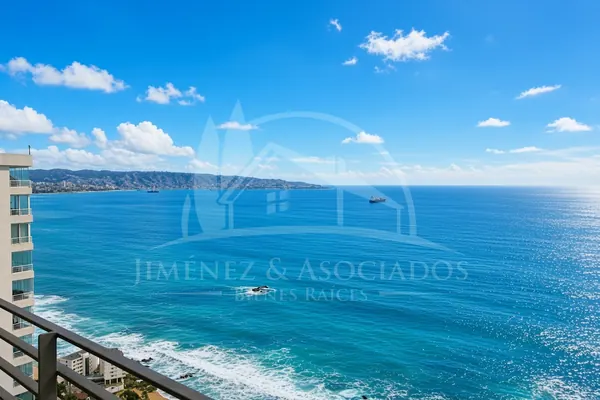
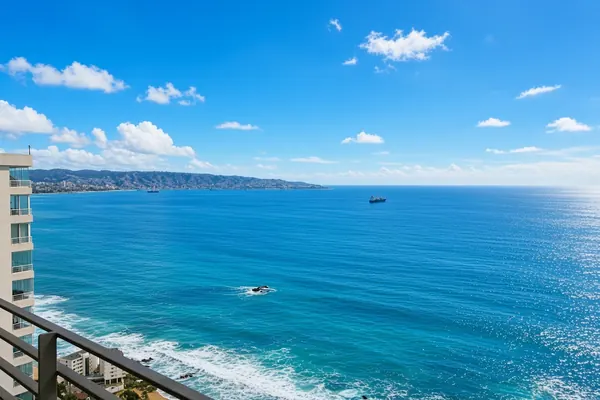
Arriendo Reñaca Norte: portada completa 3:2 sin marca de agua y galería en 2 columnas en móvil

Changed region(s): [[0.21, 0.42, 0.78, 0.75], [0.33, 0.24, 0.6, 0.39], [0.45, 0.36, 0.48, 0.39]]

diff --git a/public/arriendo-renaca-norte.html b/public/arriendo-renaca-norte.html
@@ -24,12 +24,12 @@
     <link rel="icon" type="image/png" sizes="48x48" href="/favicon-48.png">
     <link rel="apple-touch-icon" sizes="180x180" href="/apple-touch-icon.png">
     <link rel="icon" type="image/png" sizes="192x192" href="/icon-192.png">
-    <script type="application/ld+json">{"@context": "https://schema.org", "@graph": [{"@type": "Apartment", "@id": "https://jimenezyasociados.cl/arriendo-renaca-norte.html#depto", "name": "Depto amoblado con vista al mar en Reñaca Norte", "description": "Arriendo depto amoblado en Reñaca Norte, Av. Edmundo Eluchans: 2 dormitorios, 2 baños en suite, 64 m² + terraza 11 m², vista al mar, piscina temperada, gimnasio, sauna, estacionamiento y bodega. $690.000/mes.", "url": "https://jimenezyasociados.cl/arriendo-renaca-norte.html", "image": ["https://jimenezyasociados.cl/img/arriendo-renaca-norte/00.webp", "https://jimenezyasociados.cl/img/arriendo-renaca-norte/02.webp", "https://jimenezyasociados.cl/img/arriendo-renaca-norte/04.webp", "https://jimenezyasociados.cl/img/arriendo-renaca-norte/08.webp", "https://jimenezyasociados.cl/img/arriendo-renaca-norte/11.webp", "https://jimenezyasociados.cl/img/arriendo-renaca-norte/18.webp"], "numberOfRooms": 2, "numberOfBedrooms": 2, "numberOfBathroomsTotal": 2, "floorSize": {"@type": "QuantitativeValue", "value": 64, "unitCode": "MTK"}, "amenityFeature": [{"@type": "LocationFeatureSpecification", "name": "Amoblado", "value": true}, {"@type": "LocationFeatureSpecification", "name": "Terraza 11 m²", "value": true}, {"@type": "LocationFeatureSpecification", "name": "Vista al mar", "value": true}, {"@type": "LocationFeatureSpecification", "name": "Piscina temperada", "value": true}, {"@type": "LocationFeatureSpecification", "name": "Gimnasio", "value": true}, {"@type": "LocationFeatureSpecification", "name": "Sauna", "value": true}, {"@type": "LocationFeatureSpecification", "name": "Conserjería", "value": true}, {"@type": "LocationFeatureSpecification", "name": "Estacionamiento", "value": true}, {"@type": "LocationFeatureSpecification", "name": "Bodega", "value": true}], "address": {"@type": "PostalAddress", "addressLocality": "Reñaca, Viña del Mar", "addressRegion": "Región de Valparaíso", "addressCountry": "CL"}}, {"@type": "Offer", "@id": "https://jimenezyasociados.cl/arriendo-renaca-norte.html#oferta", "businessFunction": "http://purl.org/goodrelations/v1#LeaseOut", "itemOffered": {"@id": "https://jimenezyasociados.cl/arriendo-renaca-norte.html#depto"}, "price": 690000, "priceCurrency": "CLP", "priceSpecification": {"@type": "UnitPriceSpecification", "price": 690000, "priceCurrency": "CLP", "unitText": "MONTH"}, "availability": "https://schema.org/InStock", "url": "https://jimenezyasociados.cl/arriendo-renaca-norte.html", "seller": {"@id": "https://jimenezyasociados.cl/#negocio", "@type": "RealEstateAgent", "name": "Jiménez & Asociados Bienes Raíces", "telephone": "+56951134778", "url": "https://jimenezyasociados.cl/"}}]}</script>
+    <script type="application/ld+json">{"@context": "https://schema.org", "@graph": [{"@type": "Apartment", "@id": "https://jimenezyasociados.cl/arriendo-renaca-norte.html#depto", "name": "Depto amoblado con vista al mar en Reñaca Norte", "description": "Arriendo depto amoblado en Reñaca Norte, Av. Edmundo Eluchans: 2 dormitorios, 2 baños en suite, 64 m² + terraza 11 m², vista al mar, piscina temperada, gimnasio, sauna, estacionamiento y bodega. $690.000/mes.", "url": "https://jimenezyasociados.cl/arriendo-renaca-norte.html", "image": ["https://jimenezyasociados.cl/img/arriendo-renaca-norte/00.webp?v=2", "https://jimenezyasociados.cl/img/arriendo-renaca-norte/02.webp", "https://jimenezyasociados.cl/img/arriendo-renaca-norte/04.webp", "https://jimenezyasociados.cl/img/arriendo-renaca-norte/08.webp", "https://jimenezyasociados.cl/img/arriendo-renaca-norte/11.webp", "https://jimenezyasociados.cl/img/arriendo-renaca-norte/18.webp"], "numberOfRooms": 2, "numberOfBedrooms": 2, "numberOfBathroomsTotal": 2, "floorSize": {"@type": "QuantitativeValue", "value": 64, "unitCode": "MTK"}, "amenityFeature": [{"@type": "LocationFeatureSpecification", "name": "Amoblado", "value": true}, {"@type": "LocationFeatureSpecification", "name": "Terraza 11 m²", "value": true}, {"@type": "LocationFeatureSpecification", "name": "Vista al mar", "value": true}, {"@type": "LocationFeatureSpecification", "name": "Piscina temperada", "value": true}, {"@type": "LocationFeatureSpecification", "name": "Gimnasio", "value": true}, {"@type": "LocationFeatureSpecification", "name": "Sauna", "value": true}, {"@type": "LocationFeatureSpecification", "name": "Conserjería", "value": true}, {"@type": "LocationFeatureSpecification", "name": "Estacionamiento", "value": true}, {"@type": "LocationFeatureSpecification", "name": "Bodega", "value": true}], "address": {"@type": "PostalAddress", "addressLocality": "Reñaca, Viña del Mar", "addressRegion": "Región de Valparaíso", "addressCountry": "CL"}}, {"@type": "Offer", "@id": "https://jimenezyasociados.cl/arriendo-renaca-norte.html#oferta", "businessFunction": "http://purl.org/goodrelations/v1#LeaseOut", "itemOffered": {"@id": "https://jimenezyasociados.cl/arriendo-renaca-norte.html#depto"}, "price": 690000, "priceCurrency": "CLP", "priceSpecification": {"@type": "UnitPriceSpecification", "price": 690000, "priceCurrency": "CLP", "unitText": "MONTH"}, "availability": "https://schema.org/InStock", "url": "https://jimenezyasociados.cl/arriendo-renaca-norte.html", "seller": {"@id": "https://jimenezyasociados.cl/#negocio", "@type": "RealEstateAgent", "name": "Jiménez & Asociados Bienes Raíces", "telephone": "+56951134778", "url": "https://jimenezyasociados.cl/"}}]}</script>
     <style>
     *{box-sizing:border-box}body{margin:0;font-family:system-ui,-apple-system,Segoe UI,Roboto,sans-serif;background:#0a0a0a;color:#f5f5f7;line-height:1.55}
     a{color:inherit}header{display:flex;justify-content:space-between;align-items:center;padding:16px 20px;border-bottom:1px solid #222}
     header b{letter-spacing:.08em}nav a{margin-left:16px;text-decoration:none;opacity:.8}
-    .hero{position:relative}.hero img{width:100%;height:min(70vh,560px);object-fit:cover;display:block}
+    .hero{position:relative;background:#0a0a0a;display:flex;justify-content:center}.hero img{display:block;width:100%;height:auto;aspect-ratio:3/2;max-width:calc(70vh * 1.5);max-height:70vh;object-fit:contain}
     .wrap{max-width:1100px;margin:0 auto;padding:24px 20px}
     .tag{display:inline-block;background:#2563eb;color:#fff;font-weight:700;font-size:12px;padding:4px 12px;border-radius:999px;text-transform:uppercase}
     h1{font-size:clamp(1.7rem,4vw,2.6rem);line-height:1.15;margin:12px 0 6px}.loc{opacity:.75}
@@ -38,14 +38,14 @@
     .grid{display:grid;grid-template-columns:repeat(auto-fill,minmax(150px,1fr));gap:10px;margin:18px 0}
     .feat{background:#151517;border:1px solid #26262a;border-radius:16px;padding:14px;text-align:center}.feat b{display:block;font-size:1.3rem}
     ul.am{columns:2;padding-left:20px}@media(max-width:600px){ul.am{columns:1}}
-    .gal{display:grid;grid-template-columns:repeat(auto-fill,minmax(240px,1fr));gap:8px}.gal img{width:100%;aspect-ratio:4/3;object-fit:cover;border-radius:12px;display:block}
+    .gal{display:grid;grid-template-columns:repeat(2,1fr);gap:6px}@media(min-width:700px){.gal{grid-template-columns:repeat(3,1fr);gap:8px}}@media(min-width:1000px){.gal{grid-template-columns:repeat(4,1fr)}}.gal a{display:block}.gal img{width:100%;height:auto;aspect-ratio:4/3;object-fit:cover;border-radius:10px;display:block}
     footer{text-align:center;opacity:.6;padding:30px 20px;font-size:.9rem}
     .float{position:fixed;right:16px;bottom:16px;background:#16a34a;color:#fff;text-decoration:none;font-weight:800;padding:12px 18px;border-radius:999px;box-shadow:0 8px 24px rgba(0,0,0,.4)}
     </style>
 </head>
 <body>
 <header><b><a href="/" style="text-decoration:none">JIMÉNEZ & ASOCIADOS</a></b><nav><a href="propiedades.html">Propiedades</a><a href="arriendos.html">Arriendos</a></nav></header>
-<div class="hero"><img src="img/arriendo-renaca-norte/00.webp" alt="Vista al mar azul y la bahía del depto en arriendo en Reñaca Norte" fetchpriority="high"></div>
+<div class="hero"><img src="img/arriendo-renaca-norte/00.webp?v=2" alt="Vista al mar azul y la bahía del depto en arriendo en Reñaca Norte" fetchpriority="high"></div>
 <main class="wrap">
   <span class="tag">Arriendo · Amoblado</span>
   <h1>Depto amoblado con vista al mar en Reñaca Norte 🌊</h1>
@@ -68,7 +68,7 @@
   </ul>
   <h2>Galería</h2>
   <div class="gal">
-<a href="img/arriendo-renaca-norte/00.webp"><img loading="eager" decoding="async" src="img/arriendo-renaca-norte/00-thumb.webp" alt="Vista al mar azul y la bahía desde el depto – depto en arriendo Reñaca Norte"></a>
+<a href="img/arriendo-renaca-norte/00.webp?v=2"><img loading="eager" decoding="async" src="img/arriendo-renaca-norte/00-thumb.webp?v=2" alt="Vista al mar azul y la bahía desde el depto – depto en arriendo Reñaca Norte"></a>
 <a href="img/arriendo-renaca-norte/02.webp"><img loading="eager" decoding="async" src="img/arriendo-renaca-norte/02-thumb.webp" alt="Terraza con vista al mar – depto en arriendo Reñaca Norte"></a>
 <a href="img/arriendo-renaca-norte/03.webp"><img loading="eager" decoding="async" src="img/arriendo-renaca-norte/03-thumb.webp" alt="Terraza amoblada – depto en arriendo Reñaca Norte"></a>
 <a href="img/arriendo-renaca-norte/04.webp"><img loading="lazy" decoding="async" src="img/arriendo-renaca-norte/04-thumb.webp" alt="Living comedor amoblado – depto en arriendo Reñaca Norte"></a>

diff --git a/public/arriendos.html b/public/arriendos.html
@@ -95,7 +95,7 @@
 
     <section class="max-w-5xl mx-auto px-6 py-12"><h2 class="text-3xl font-bold mb-6">Arriendo disponible ahora</h2>
     <a href="arriendo-renaca-norte.html" style="display:flex;flex-wrap:wrap;gap:20px;align-items:center;border:1px solid rgba(255,255,255,.15);border-radius:24px;overflow:hidden;color:inherit;text-decoration:none">
-    <img loading="lazy" src="img/arriendo-renaca-norte/00-thumb.webp" alt="Vista al mar desde la terraza, depto en Reñaca Norte" style="width:320px;max-width:100%;height:220px;object-fit:cover">
+    <img loading="lazy" src="img/arriendo-renaca-norte/00-thumb.webp?v=2" alt="Vista al mar desde la terraza, depto en Reñaca Norte" style="width:320px;max-width:100%;height:220px;object-fit:cover">
     <div style="padding:16px"><h3 style="font-size:1.4rem;font-weight:800">Depto amoblado vista al mar · Reñaca Norte</h3><p style="opacity:.75">2D/2B en suite · 64 m² + terraza 11 m² · piscina temperada, gimnasio, sauna</p><p style="font-size:1.6rem;font-weight:800;color:#60a5fa">$690.000/mes</p><p style="text-decoration:underline">Ver fotos y detalles →</p></div></a></section>
 <section class="py-16 px-6 text-center bg-[#050505]">
         <h2 class="text-3xl font-bold mb-6">¿Tiene una propiedad para arrendar?</h2>

diff --git a/public/propiedades.html b/public/propiedades.html
@@ -96,7 +96,7 @@
     <section class="max-w-7xl mx-auto px-6 pb-24">
         <div id="propiedades-grid" class="grid md:grid-cols-2 lg:grid-cols-3 gap-6">
                 <div class="glass-card rounded-3xl overflow-hidden">
-                    <div class="relative h-56"><a href="arriendo-renaca-norte.html"><img loading="lazy" decoding="async" src="img/arriendo-renaca-norte/00-thumb.webp" alt="Depto amoblado con vista al mar en Reñaca Norte" class="w-full h-full object-cover"></a>
+                    <div class="relative h-56"><a href="arriendo-renaca-norte.html"><img loading="lazy" decoding="async" src="img/arriendo-renaca-norte/00-thumb.webp?v=2" alt="Depto amoblado con vista al mar en Reñaca Norte" class="w-full h-full object-cover"></a>
                         <div class="absolute top-4 left-4 bg-blue-600 text-white text-xs font-bold px-3 py-1 rounded-full">Arriendo</div></div>
                     <div class="p-6"><h3 class="text-xl font-bold mb-2"><a href="arriendo-renaca-norte.html">Depto amoblado vista al mar, Reñaca Norte</a></h3>
                         <p class="text-gray-400 text-sm mb-3">Reñaca Norte, Av. Edmundo Eluchans (cerca de la Shell), Viña del Mar</p>
